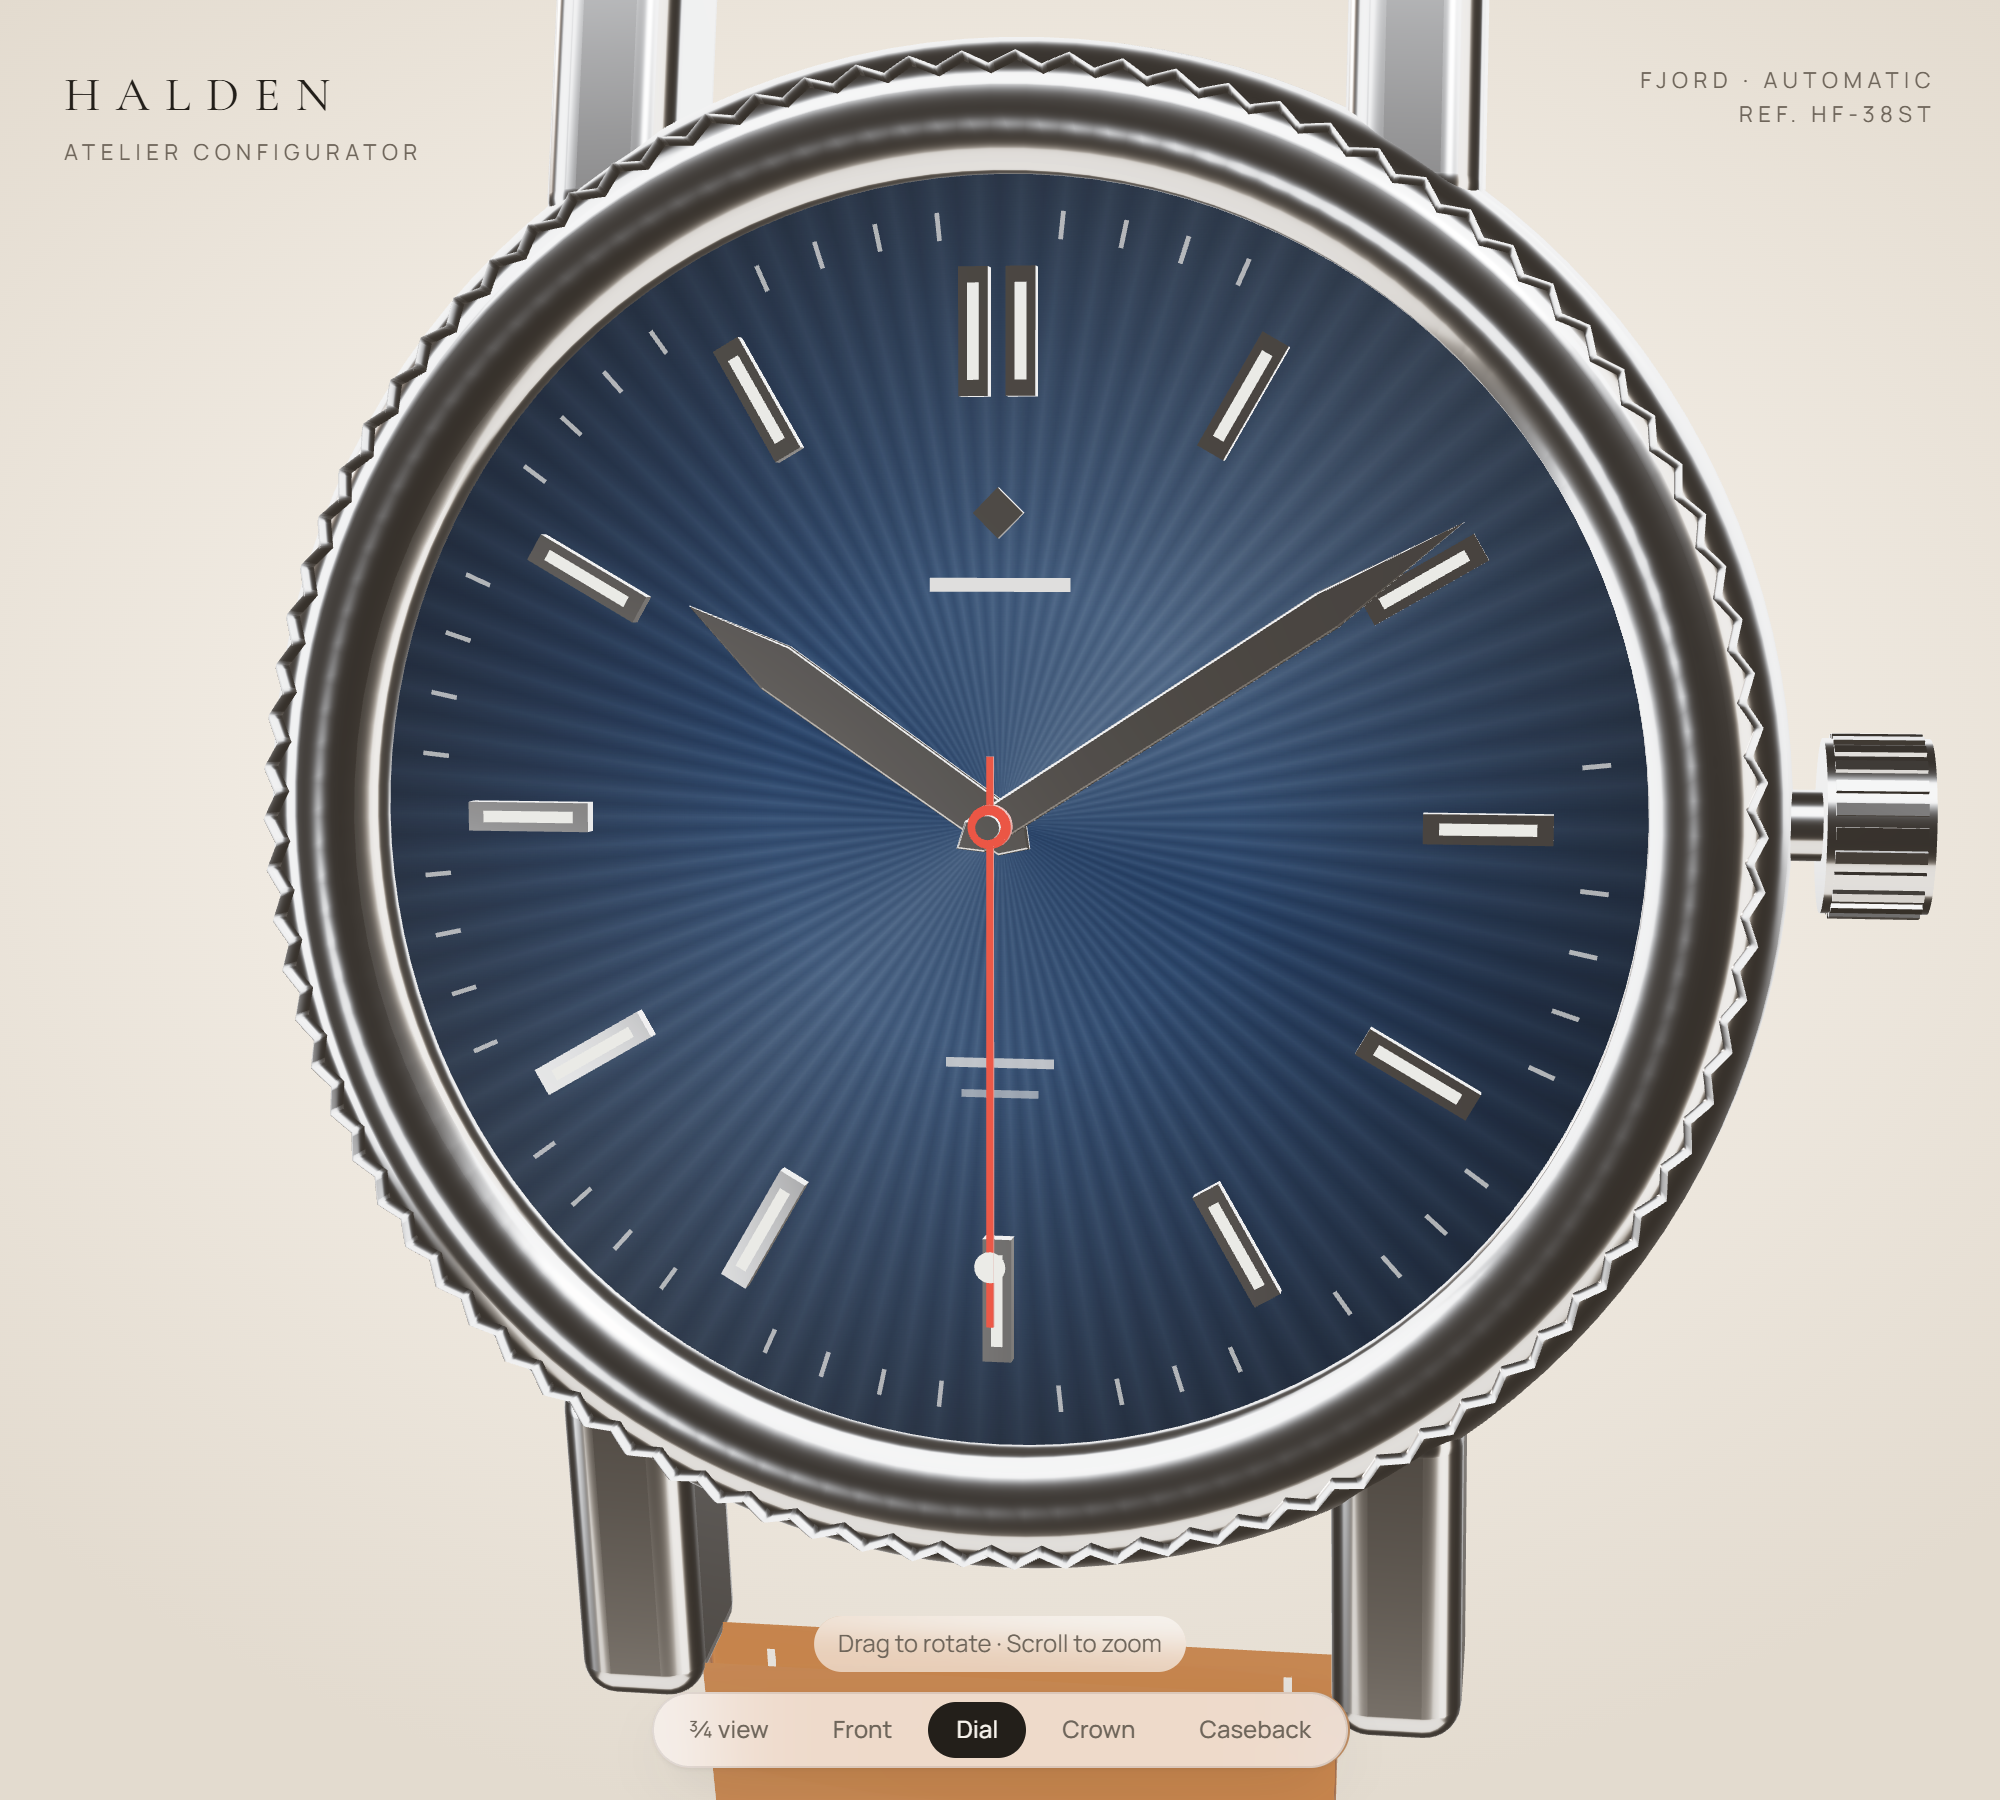
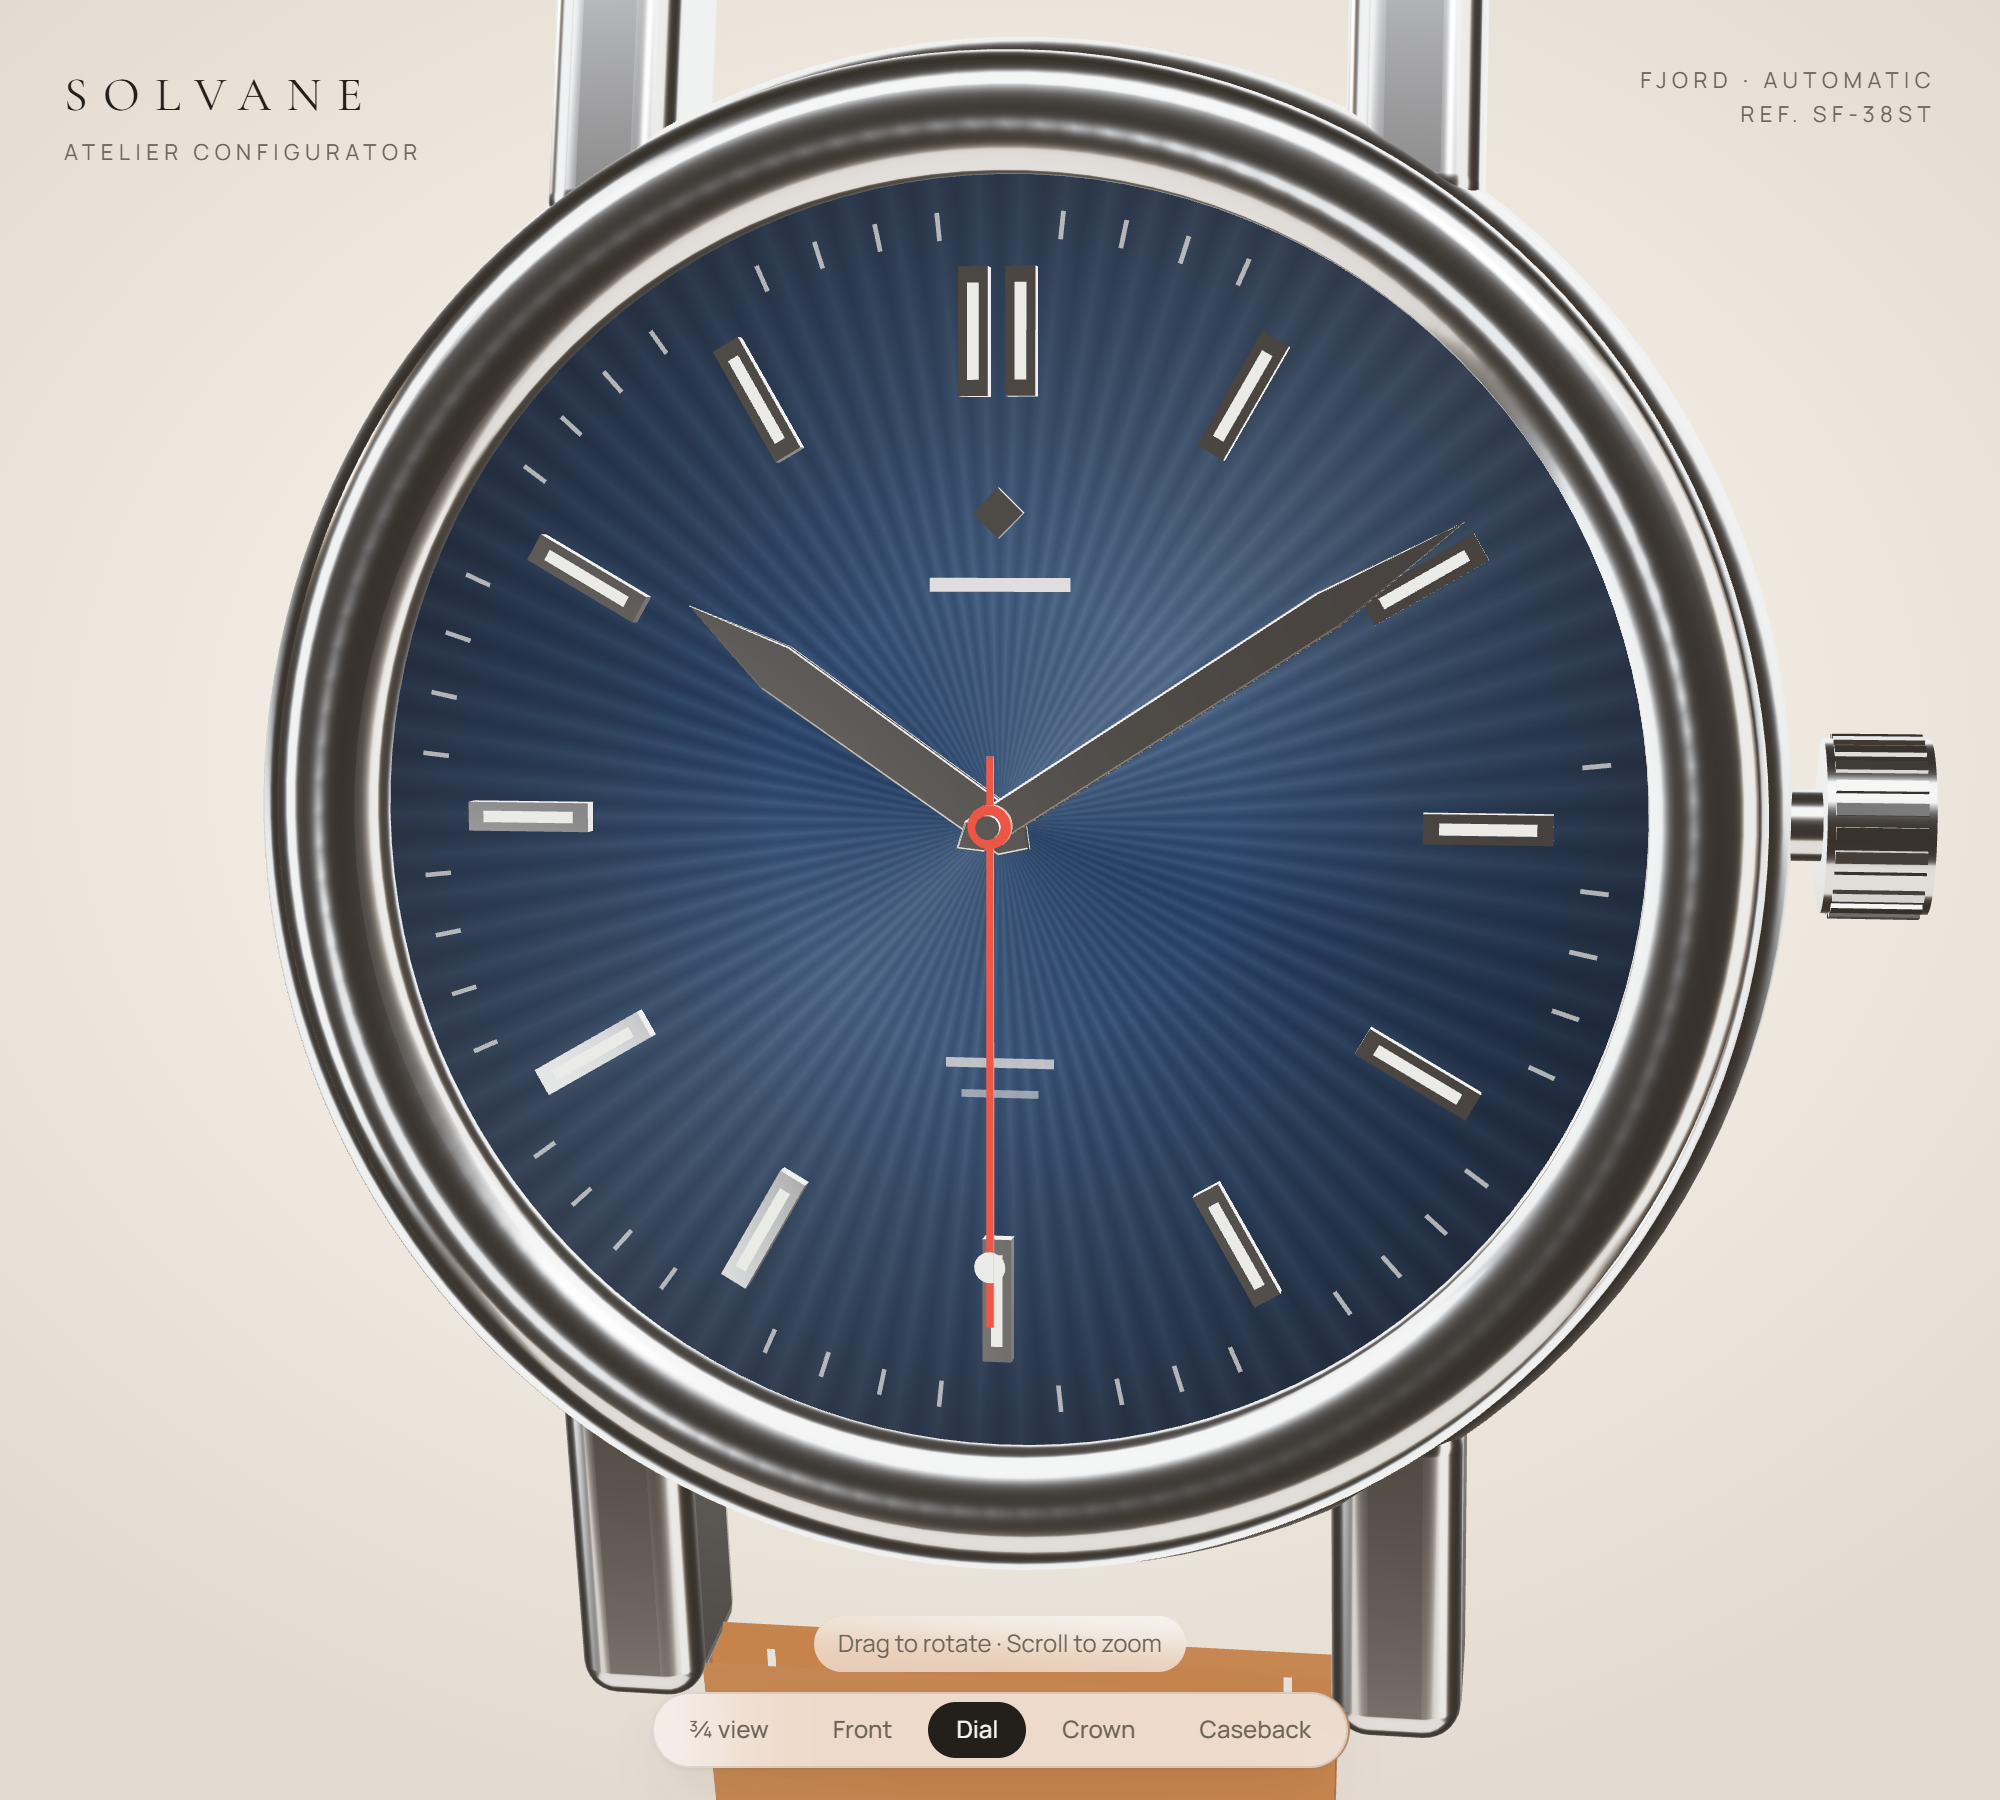
Rename brand from Halden to Solvane
"Halden" is close to Halda, a real Swedish watchmaker. Solvane is a new
name with no matching watch brand found. Also makes the polished bezel
the default build (the fluted bezel stays as an option) and adds a
visible note that the brand is fictional. Screenshots re-taken.

diff --git a/src/components/configurator.tsx b/src/components/configurator.tsx
@@ -125,7 +125,7 @@ export function Configurator() {
     const fs = Math.max(14, Math.round(c.width * 0.016));
     ctx.fillStyle = "#2b2620";
     ctx.font = `500 ${fs * 1.6}px Georgia, serif`;
-    ctx.fillText("Halden Fjord", pad, c.height - pad - fs * 1.6);
+    ctx.fillText("Solvane Fjord", pad, c.height - pad - fs * 1.6);
     ctx.font = `${fs}px system-ui, sans-serif`;
     ctx.fillStyle = "#6b6257";
     ctx.fillText(
@@ -135,7 +135,7 @@ export function Configurator() {
     );
     const a = document.createElement("a");
     a.href = c.toDataURL("image/png");
-    a.download = `halden-fjord-${config.case}-${config.dial}.png`;
+    a.download = `solvane-fjord-${config.case}-${config.dial}.png`;
     a.click();
     setToast("Image saved.");
   }
@@ -150,13 +150,13 @@ export function Configurator() {
       >
         <header className="pointer-events-none absolute inset-x-0 top-0 z-10 flex items-start justify-between p-4 sm:p-8">
           <div className="pointer-events-auto">
-            <p className="font-display text-xl tracking-[0.32em] text-ink uppercase sm:text-2xl">Halden</p>
+            <p className="font-display text-xl tracking-[0.32em] text-ink uppercase sm:text-2xl">Solvane</p>
             <p className="mt-1 hidden text-[11px] tracking-[0.25em] text-ink-soft uppercase sm:block">Atelier configurator</p>
           </div>
           <p className="hidden text-right text-[11px] tracking-[0.25em] text-ink-soft uppercase sm:block">
             Fjord · Automatic
             <br />
-            Ref. HF-{config.size}
+            Ref. SF-{config.size}
             {config.case.slice(0, 2).toUpperCase()}
           </p>
         </header>
@@ -220,6 +220,11 @@ export function Configurator() {
           >
             <RotateCcwIcon className="size-3.5" /> Reset to signature build
           </button>
+
+          <p className="mt-8 text-[11px] leading-relaxed text-ink-soft">
+            Solvane is a fictional watchmaker created for a portfolio project. Prices are illustrative and no orders
+            are placed.
+          </p>
         </div>
 
         {/* Summary bar */}

diff --git a/src/app/layout.tsx b/src/app/layout.tsx
@@ -15,11 +15,11 @@ const manrope = Manrope({
 });
 
 export const metadata: Metadata = {
-  title: "Halden Fjord: build your watch in 3D",
+  title: "Solvane Fjord: build your watch in 3D",
   description:
-    "Configure the Halden Fjord automatic in real-time 3D. Choose the case, bezel, dial, hands and strap, then share your build.",
+    "Configure the Solvane Fjord automatic in real-time 3D. Choose the case, bezel, dial, hands and strap, then share your build.",
   openGraph: {
-    title: "Halden Fjord: 3D watch configurator",
+    title: "Solvane Fjord: 3D watch configurator",
     description: "Design your own automatic watch in real-time 3D.",
     type: "website",
   },

diff --git a/src/lib/config.ts b/src/lib/config.ts
@@ -1,5 +1,5 @@
 // Everything the configurator can change, with prices.
-// Halden is a fictional watchmaker made for this portfolio project.
+// Solvane is a fictional watchmaker made for this portfolio project.
 
 export type Option<Id extends string = string> = {
   id: Id;
@@ -75,7 +75,7 @@ export type WatchConfig = {
 
 export const DEFAULT_CONFIG: WatchConfig = {
   case: "steel",
-  bezel: "fluted",
+  bezel: "polished",
   dial: "midnight",
   indices: "baton",
   accent: "red",

diff --git a/README.md b/README.md
@@ -1,18 +1,18 @@
-# Halden Fjord: 3D watch configurator
+# Solvane Fjord: 3D watch configurator
 
 **Live site:** https://halden-watch-configurator.vercel.app
 
 Design your own luxury watch in real-time 3D. Pick the case metal, bezel, dial, hour markers, seconds hand, strap and size; the price updates live, the address bar always holds a shareable link to your exact build, and you can save a studio-style image of it.
 
-> Halden is a fictional watchmaker created for this portfolio project. The "Reserve" button doesn't place an order.
+> Solvane is a fictional watchmaker created for this portfolio project. The "Reserve" button doesn't place an order.
 
-![Halden Fjord configurator](docs/thumbnail@2x.png)
+![Solvane Fjord configurator](docs/thumbnail@2x.png)
 
 ## Screenshots
 
 | Signature steel | Rose gold |
 |---|---|
-| ![Steel, fluted bezel, blue dial](docs/screenshots/desktop/01-signature-steel.png) | ![Rose gold, ceramic bezel, salmon dial](docs/screenshots/desktop/02-rose-gold-salmon.png) |
+| ![Steel, polished bezel, blue dial](docs/screenshots/desktop/01-signature-steel.png) | ![Rose gold, ceramic bezel, salmon dial](docs/screenshots/desktop/02-rose-gold-salmon.png) |
 
 | Yellow gold bracelet | Black DLC |
 |---|---|

diff --git a/docs/case-study.md b/docs/case-study.md
@@ -1,11 +1,11 @@
-# Halden Fjord: case study
+# Solvane Fjord: case study
 
 **Role:** Design and development (solo)
 **Type:** Interactive 3D product configurator
 **Stack:** Next.js 16, TypeScript, Tailwind CSS v4, Three.js, React Three Fiber, drei, Vercel
-**Links:** [Live site](https://halden-watch-configurator.vercel.app) · [Code](https://github.com/shervs336/halden-watch-configurator)
+**Links:** [Live site](https://halden-watch-configurator.vercel.app) · [Code](https://github.com/shervs336/solvane-watch-configurator)
 
-![Halden Fjord configurator](thumbnail@2x.png)
+![Solvane Fjord configurator](thumbnail@2x.png)
 
 ---
 
